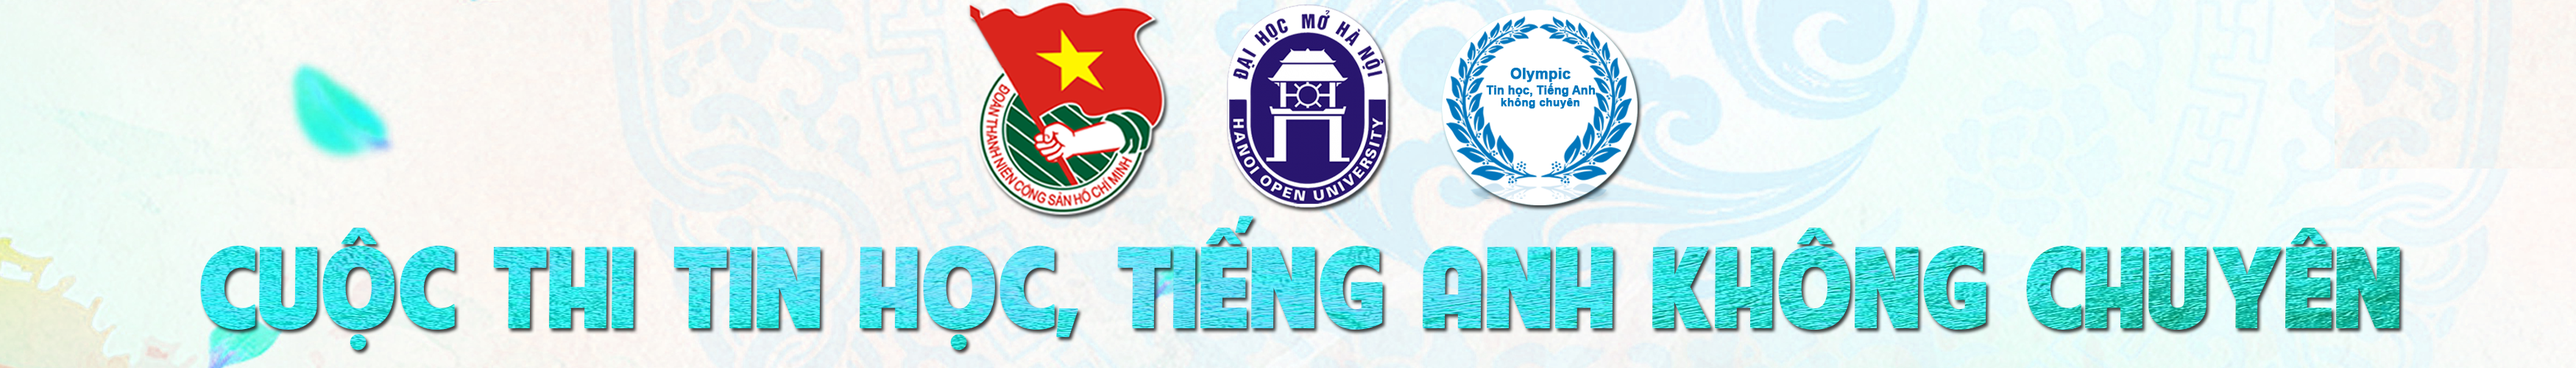
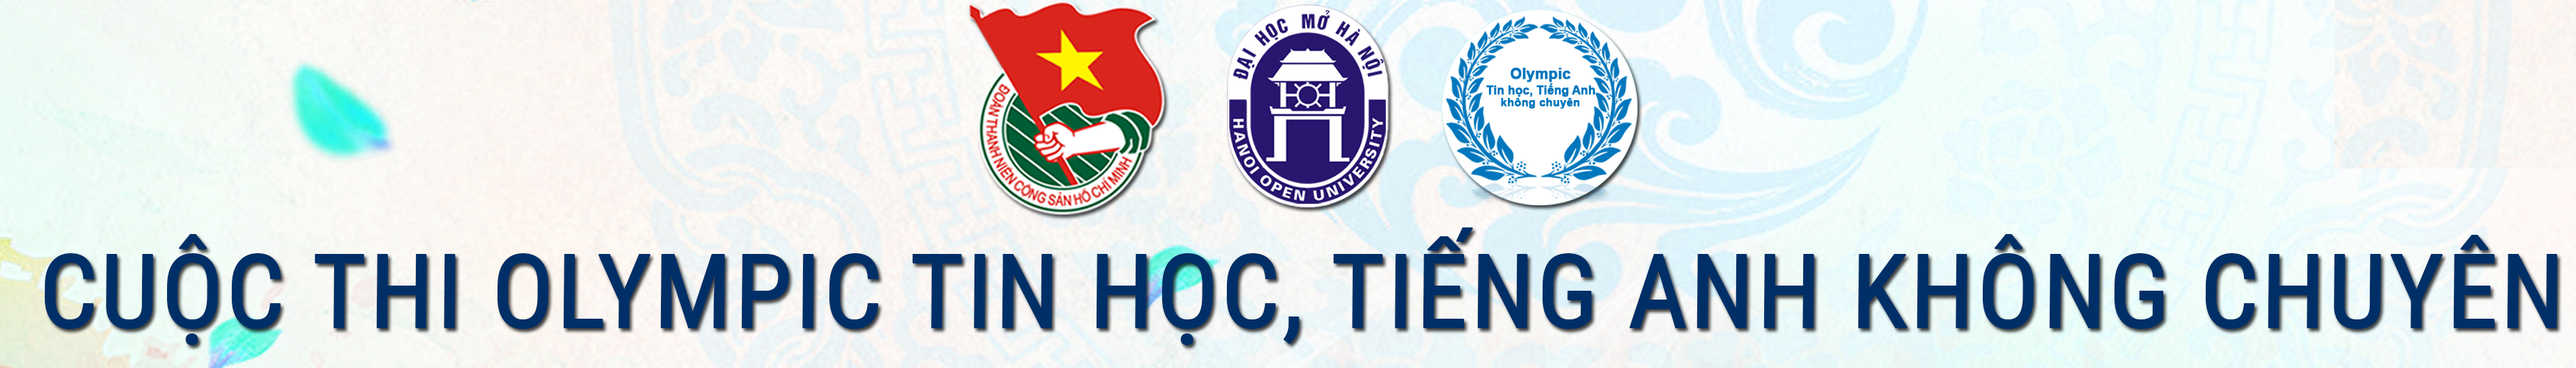
thay đổi các cảnh tiêu đề

Changed region(s): [[0.0, 0.6, 0.9966, 0.96]]

diff --git a/public/site/style.css b/public/site/style.css
@@ -1,3 +1,4 @@
+@import url('https://fonts.googleapis.com/css2?family=Roboto+Condensed:ital,wght@0,300;0,400;0,700;1,300;1,400;1,700&display=swap');
 .d-none{
   position: absolute !important;
     display: none !important;
@@ -73,6 +74,7 @@
 
 body{
   background-color:#0479ff2b;
+  font-family: 'Roboto Condensed', sans-serif;
 }
 .swal2-toast{
   font-size: 15px !important;

diff --git a/application/views/site/Vleft.php b/application/views/site/Vleft.php
@@ -4,7 +4,7 @@
                     <div class="tit-thongbao">
                         <div class="clearfix vi-header">
                             <div class="vi-left-title pull-left">
-                                <a href=""><img src="{public_url('site')}/img/t-dangcai.jpg" alt=""></a>
+                                <a href="{base_url('dvdangcai')}"><img src="{public_url('site')}/img/t-dangcai.png" alt=""></a>
                                 <!-- <div class="thongbao">Thông báo</div> -->
                             </div>
                         </div>
@@ -14,6 +14,9 @@
                             <a href="{base_url('baiviet/')}{$dangcai[0]['sIDBaiviet']}"  style="display: block; font-size: 16px;
     color: #337ab7; text-align:justify;">{$dangcai[0]['tTomTat']}</a>
                         </div>
+                        <div class="xemthem">
+                            <a href="{base_url('dvdangcai')}">Xem thêm >></a>
+                        </div>
                     </div>
                 </div>
             </div>
@@ -22,7 +25,8 @@
                     <div class="tit-thongbao">
                         <div class="clearfix vi-header">
                             <div class="vi-left-title pull-left">
-                                <img src="{public_url('site')}/img/t-gioithieu.png" alt="">
+                                <!-- <img src="{public_url('site')}/img/t-gioithieu.png" alt=""> -->
+                                <a href="{base_url('gioithieu')}"><img src="{public_url('site')}/img/t-gioithieu.png" alt=""></a>
                                 <!-- <div class="thongbao">Thông báo</div> -->
                             </div>
                         </div>
@@ -31,7 +35,8 @@
                     {foreach $gioithieu as $r}
                         <div class="tintuc row">
                             <div class="icon col-lg-1">
-                            <i class="fa fa-file-text-o" aria-hidden="true"></i>
+                            <img src="{public_url('site')}/img/logo-sach.png" alt="">
+                            <!-- <i class="fa fa-file-text-o" aria-hidden="true"></i> -->
                             </div>
                             <div class="tieude col-lg-10">
                                 <a href="{base_url('baiviet/')}{$r.sIDBaiviet}">{$r.sTieuDe}</a>
@@ -49,7 +54,8 @@
                     <div class="tit-thongbao">
                         <div class="clearfix vi-header">
                             <div class="vi-left-title pull-left">
-                                <img src="{public_url('site')}/img/tittle11.png" alt="">
+                                <!-- <img src="{public_url('site')}/img/tittle11.png" alt=""> -->
+                                <a href="{base_url('thongbao')}"><img src="{public_url('site')}/img/tittle11.png" alt=""></a>
                                 <!-- <div class="thongbao">Thông báo</div> -->
                             </div>
                         </div>
@@ -76,8 +82,34 @@
                     <div class="tit-thongbao">
                         <div class="clearfix vi-header">
                             <div class="vi-left-title pull-left">
-                                <img src="{public_url('site')}/img/t-ontap.png" alt="">
-                                <!-- <div class="thongbao">Thông báo</div> -->
+                                <a href="{base_url('ontap')}"><img src="{public_url('site')}/img/t-ontap.png" alt=""></a>
+                            </div>
+                        </div>
+                    </div>
+                    <div class="panel-body nd-thongbao">
+                    {foreach $ontap as $r}
+                        <div class="tintuc row">
+                            <div class="icon col-lg-1">
+                            <i class="fa fa-book" aria-hidden="true"></i>
+                            </div>
+                            <div class="tieude col-lg-10">
+                                <a href="{base_url('baiviet/')}{$r.sIDBaiviet}">{$r.sTieuDe}</a>
+                                <div class="date">
+                                    <i class="fa fa-calendar" aria-hidden="true"> {date("d-m-Y", $r.dNgayDang)}</i>
+                                </div>
+                            </div>
+                        </div>
+                    {/foreach}
+                    </div>
+                </div>
+            </div>
+
+            <div class="b_left col-lg-12">
+                <div class="l_content col-lg-12">
+                    <div class="tit-thongbao">
+                        <div class="clearfix vi-header">
+                            <div class="vi-left-title pull-left">
+                                <a href="{base_url('ontap')}"><img src="{public_url('site')}/img/t-ontap.png" alt=""></a>
                             </div>
                         </div>
                     </div>
